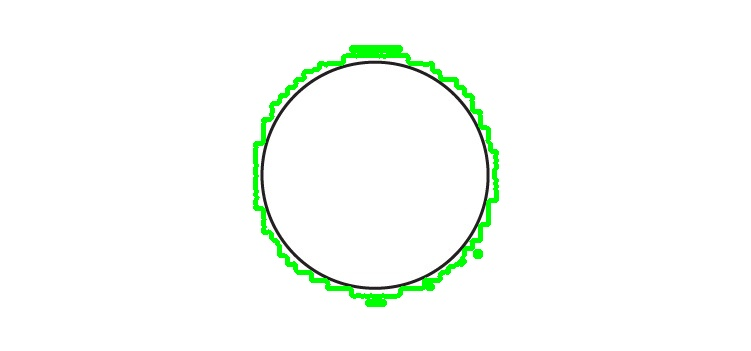
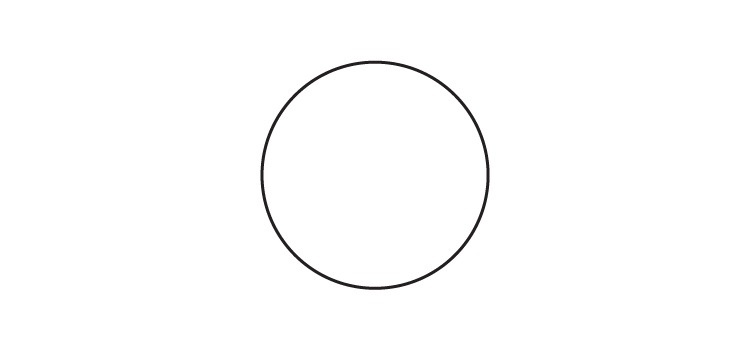
need to fix the arguments and correctly get sample data for KNN

Changed region(s): [[0.3369, 0.114, 0.6738, 0.8832]]

diff --git a/contour_detection.py b/contour_detection.py
@@ -1,7 +1,6 @@
 import cv2
 import numpy as np
 import os
-from sklearn.neighbors import KNeighborsClassifier
 
 # Function to read and convert image to grayscale
 def load_and_convert_image(image_path):
@@ -13,8 +12,7 @@ def load_and_convert_image(image_path):
 def sobel_edge_detection(gray_image):
     sobel_x = cv2.Sobel(gray_image, cv2.CV_64F, 1, 0, ksize=3)
     sobel_y = cv2.Sobel(gray_image, cv2.CV_64F, 0, 1, ksize=3)
-    magnitude = cv2.magnitude(sobel_x, sobel_y)
-    return cv2.convertScaleAbs(magnitude)  # Convert to 8-bit image
+    return cv2.magnitude(sobel_x, sobel_y)
 
 # Function to apply Canny edge detection
 def canny_edge_detection(gray_image, low_threshold=100, high_threshold=200):
@@ -23,69 +21,83 @@ def canny_edge_detection(gray_image, low_threshold=100, high_threshold=200):
 # Function to apply Laplacian of Gaussian (LoG) edge detection
 def log_edge_detection(gray_image):
     blurred_image = cv2.GaussianBlur(gray_image, (5, 5), 0)
-    log_edges = cv2.Laplacian(blurred_image, cv2.CV_64F)
-    return cv2.convertScaleAbs(log_edges)  # Convert to 8-bit image
+    return cv2.Laplacian(blurred_image, cv2.CV_64F)
 
 # Function to find contours from an edge-detected image
 def find_contours(edge_image):
+    # Convert the edge image to an 8-bit format if it's not already
+    edge_image = cv2.convertScaleAbs(edge_image)  # Convert to 8-bit
     contours, _ = cv2.findContours(edge_image, cv2.RETR_EXTERNAL, cv2.CHAIN_APPROX_SIMPLE)
     return contours
 
-# Function to draw contours on the image
-def draw_contours_on_image(image, contours):
-    image_with_contours = image.copy()
-    cv2.drawContours(image_with_contours, contours, -1, (0, 255, 0), 3)  # Green contours
-    return image_with_contours
-
-# Sample labeled training data for shapes (area, perimeter, vertices count, pixel count, label)
-training_data = [
-    [500.0, 90.0, 4, 500, 'Square'],
-    [600.0, 75.0, 3, 600, 'Triangle'],
-    [700.0, 110.0, 0, 700, 'Circle'],
-    [1200.0, 180.0, 4, 1200, 'Rectangle'],
-    [800.0, 150.0, 8, 800, 'Star'],
-    # Add more samples as needed for training
-]
-
-# Prepare training features and labels
-X_train = [data[:4] for data in training_data]  # Use area, perimeter, vertices, pixel_count
-y_train = [data[4] for data in training_data]   # Labels
-
-# Train the k-NN classifier
-knn = KNeighborsClassifier(n_neighbors=3)
-knn.fit(X_train, y_train)
-
-# Function to classify contours based on k-NN model
-def classify_contour_with_knn(image, contour):
-    area = cv2.contourArea(contour)
+def auto_label_shape(contour):
+    # Approximate the contour to a polygon (with more vertices, the better)
     perimeter = cv2.arcLength(contour, True)
-    vertices = len(cv2.approxPolyDP(contour, 0.04 * perimeter, True))
-    mask = create_mask(image, contour)  # Create mask for pixel count
-    pixel_count = count_pixels_in_contour(mask)  # Count pixels inside contour
-    contour_features = [area, perimeter, vertices, pixel_count]
-    shape = knn.predict([contour_features])[0]
-    return shape
+    approx = cv2.approxPolyDP(contour, 0.04 * perimeter, True)  # 4% tolerance
+    
+    # Based on the number of vertices, label the shape
+    vertices_count = len(approx)
+    
+    if vertices_count == 3:
+        return 'Triangle'
+    elif vertices_count == 4:
+        # Check if the width and height are roughly equal (for square/rectangle)
+        rect = cv2.boundingRect(approx)
+        width, height = rect[2], rect[3]
+        if abs(width - height) < 0.1 * width:  # Threshold for "square" (aspect ratio check)
+            return 'Square'
+        else:
+            return 'Rectangle'
+    elif vertices_count > 4:
+        return 'Polygon'  # or other categories based on vertices count
+    else:
+        return 'Unknown'
 
-# Create a binary mask for a contour
-def create_mask(image, contour):
-    # Create a black image of the same size as the original image
-    mask = np.zeros(image.shape[:2], dtype=np.uint8)
-    # Fill the contour area with white (255) on the mask
-    cv2.drawContours(mask, [contour], -1, (255), thickness=cv2.FILLED)
-    return mask
+# Inside your contour processing loop, replace the manual labeling with the auto_label_shape function:
+def calculate_shape_features(image, contours):
+    features = []
+    labels = []  # Automatically generated labels based on the shape
 
-# Function to count pixels inside a contour
-def count_pixels_in_contour(mask):
-    return cv2.countNonZero(mask)  # Count non-zero pixels in the mask
-
-# Function to draw contours and classify shapes using k-NN
-def draw_and_classify_shapes(image, contours):
-    image_with_contours = image.copy()
     for contour in contours:
-        shape = classify_contour_with_knn(image, contour)
-        cv2.putText(image_with_contours, shape, (contour[0][0][0], contour[0][0][1]),
-                    cv2.FONT_HERSHEY_SIMPLEX, 1, (0, 0, 255), 2)
-        cv2.drawContours(image_with_contours, [contour], -1, (0, 255, 0), 3)
+        # Calculate the contour features (area, perimeter, etc.)
+        area = cv2.contourArea(contour)
+        perimeter = cv2.arcLength(contour, True)
+        vertices = len(cv2.approxPolyDP(contour, 0.04 * perimeter, True))
+        
+        # Pixel count: Calculate the number of pixels in the contour mask
+        mask = np.zeros(image.shape[:2], dtype=np.uint8)
+        cv2.drawContours(mask, [contour], -1, 255, thickness=cv2.FILLED)
+        pixel_count = cv2.countNonZero(mask)
+        
+        # Extract features
+        features.append([area, perimeter, vertices, pixel_count])
+        
+        # Auto label the shape
+        labels.append(auto_label_shape(contour))  # Use the automated labeling function
+
+    return features, labels
+
+# Function to draw contours and display calculated features
+def draw_and_display_features(image, contours, features):
+    image_with_contours = image.copy()
+    
+    for contour, feature in zip(contours, features):
+        # Extract feature values
+        area, perimeter, vertices, pixel_count = feature
+        
+        # Display feature values on the image
+        cv2.putText(image_with_contours, f"Area: {area:.2f}", (contour[0][0][0], contour[0][0][1]),
+                    cv2.FONT_HERSHEY_SIMPLEX, 0.5, (0, 0, 255), 1)
+        cv2.putText(image_with_contours, f"Perim: {perimeter:.2f}", (contour[0][0][0], contour[0][0][1] + 20),
+                    cv2.FONT_HERSHEY_SIMPLEX, 0.5, (0, 0, 255), 1)
+        cv2.putText(image_with_contours, f"Verts: {vertices}", (contour[0][0][0], contour[0][0][1] + 40),
+                    cv2.FONT_HERSHEY_SIMPLEX, 0.5, (0, 0, 255), 1)
+        cv2.putText(image_with_contours, f"Pixels: {pixel_count}", (contour[0][0][0], contour[0][0][1] + 60),
+                    cv2.FONT_HERSHEY_SIMPLEX, 0.5, (0, 0, 255), 1)
+        
+        # Draw the contours
+        cv2.drawContours(image_with_contours, [contour], -1, (0, 255, 0), 2)
+    
     return image_with_contours
 
 # Main function to process images and save to "final_images" folder
@@ -101,36 +113,38 @@ def main():
         # Load and process each image
         image, gray_image = load_and_convert_image(image_path)
         
-        # Apply traditional edge detection methods
+        # Apply edge detection techniques (you can experiment with different methods)
         sobel_edges = sobel_edge_detection(gray_image)
         canny_edges = canny_edge_detection(gray_image)
         log_edges = log_edge_detection(gray_image)
         
-        # Find contours using each edge detection result
+        # Find contours for each edge detection method
         sobel_contours = find_contours(sobel_edges)
         canny_contours = find_contours(canny_edges)
         log_contours = find_contours(log_edges)
         
-        # Draw and save the contours for traditional methods
-        sobel_image = draw_contours_on_image(image, sobel_contours)
-        canny_image = draw_contours_on_image(image, canny_contours)
-        log_image = draw_contours_on_image(image, log_contours)
-
-        # Draw and classify contours using KNN
-        knn_image = draw_and_classify_shapes(image, canny_contours)  # Using Canny for KNN
+        # Calculate features (area, perimeter, vertices count, pixel count) for each set of contours
+        sobel_features = calculate_shape_features(image, sobel_contours)
+        canny_features = calculate_shape_features(image, canny_contours)
+        log_features = calculate_shape_features(image, log_contours)
+        
+        # Draw contours and display features
+        sobel_image = draw_and_display_features(image, sobel_contours, sobel_features)
+        canny_image = draw_and_display_features(image, canny_contours, canny_features)
+        log_image = draw_and_display_features(image, log_contours, log_features)
         
         # Save the processed images to the "final_images" folder
         sobel_output_path = os.path.join(output_folder, f"sobel_{os.path.basename(image_path)}")
         canny_output_path = os.path.join(output_folder, f"canny_{os.path.basename(image_path)}")
         log_output_path = os.path.join(output_folder, f"log_{os.path.basename(image_path)}")
-        knn_output_path = os.path.join(output_folder, f"knn_{os.path.basename(image_path)}")
         
         cv2.imwrite(sobel_output_path, sobel_image)
         cv2.imwrite(canny_output_path, canny_image)
         cv2.imwrite(log_output_path, log_image)
-        cv2.imwrite(knn_output_path, knn_image)
         
-        print(f"Saved: {sobel_output_path}, {canny_output_path}, {log_output_path}, {knn_output_path}")
+        print(f"Saved: {sobel_output_path}")
+        print(f"Saved: {canny_output_path}")
+        print(f"Saved: {log_output_path}")
 
 # Run the main function
 if __name__ == "__main__":
